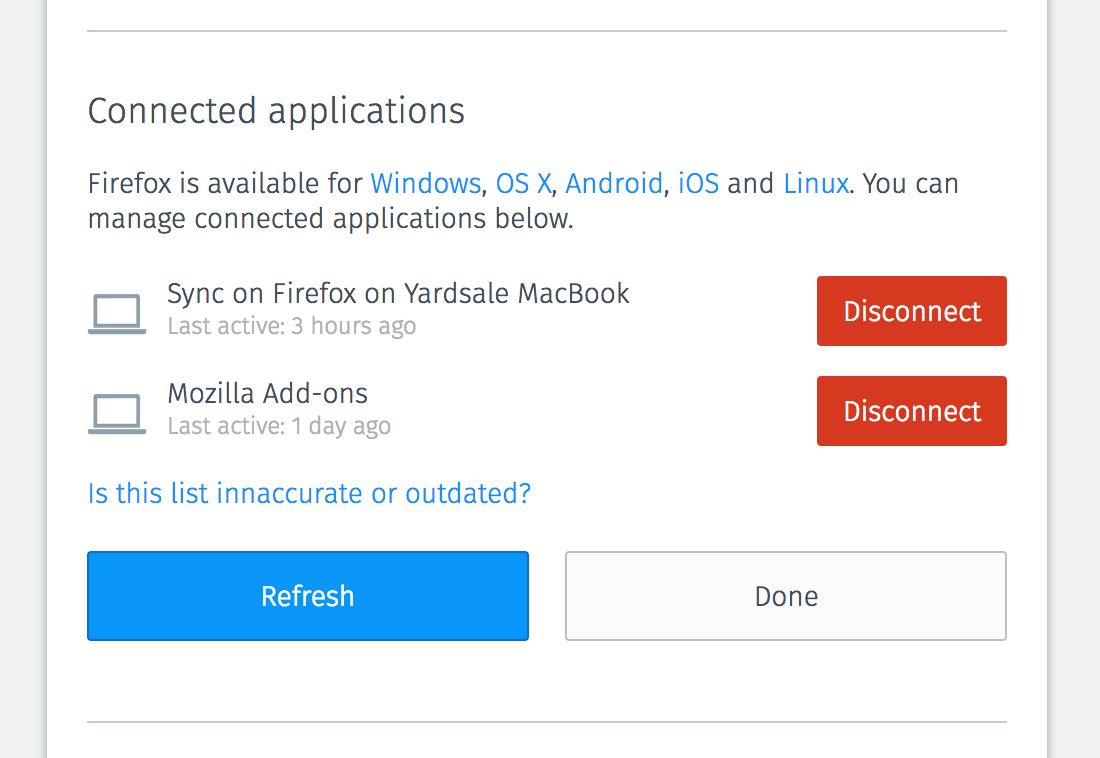
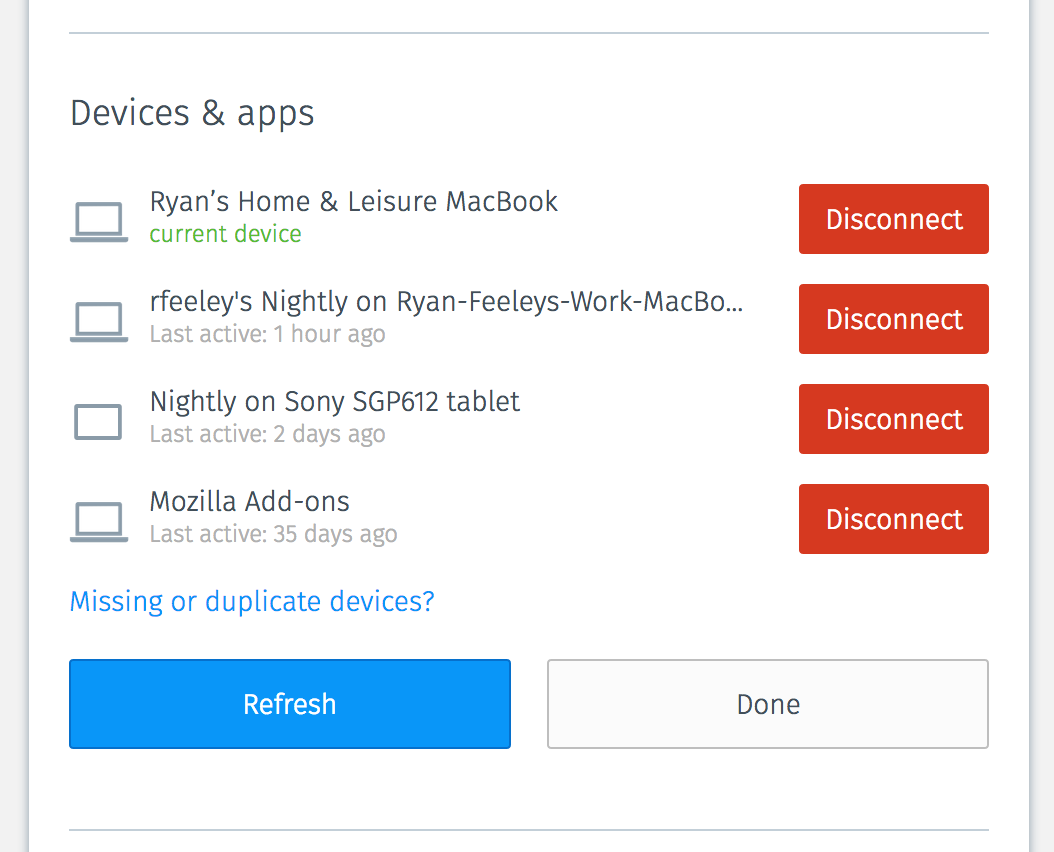
feat(fxa-15): new mock, easier to read spec

Changed region(s): [[0.0, 0.0, 1.0, 1.0], [0.5161, 0.7586, 0.5465, 0.7889]]

diff --git a/features/FxA-15-OAuth-Management/README.md b/features/FxA-15-OAuth-Management/README.md
@@ -1,7 +1,7 @@
 Disconnect OAuth services from FxA
 ======================
 
-https://mozilla.aha.io/features/FXA-15
+https://github.com/mozilla/fxa-features/issues/20
 
 ## Problem Summary
 
@@ -20,9 +20,9 @@ See "Detailed Design" below for more details.
 
 ## Hypothesis
 
-We believe that by adding OAuth services and functionality to disconnect the services
-for Firefox Accounts users will improve the quality and security of FxA
-for everybody.
+Being able to disconnect the services from user settings
+will improve the quality and security of our service.
+This functionality is a core feature for services that provide OAuth relier login.
 We will know this is true when we see activity in the "Connected apps and devices"
 
 ## Metrics
@@ -39,25 +39,31 @@ the popularity of this feature.
 
 ## Detailed design
 
-<img src='pr_moz_mock.png' width='450' />
+<img src='pr_moz_mock.png' width='440' />
+
+The mock up above adds "apps" functionality to the
+[Devices View (FXA-89)](https://github.com/mozilla/fxa/pull/181/files).
 
 The initial OAuth apps list would
 revoke the non-expired tokens using the web UI.
 It will be displayed to logged in users of FxA
-in the "Connected apps and devices" settings view.
+in the "Devices & apps" settings view.
 This new functionality changes the current devices view and adds to it.
 
 The list will also include the sessions that were created
-for the Firefox Accounts website and the Firefox Desktop browser.
-This gives users full control over all of their sessions.
+for the Firefox Accounts website. Firefox Browser and Sync logins
+are treated as 'device clients' and are managed as 'Devices', not apps.
 
 * The dashboard will order the services by last login to a given service.
+* The OAuth servers calls the listed items "clients". To make it easier to understand
+we call them "apps" in the settings view.
 * The button to remove all active sessions will say "Disconnect". To match "devices".
 * The dashboard will provide a "last active" date in the same format as the devices view.
-* The dashboard's title in settings will be "Connected apps and devices".
+* The dashboard's title in settings will be "Connected devices & apps".
 * All services will have the same default service icon to improve the visual UX of the feature.
 * Revoking Access:
-  * OAuth service: will revoke all tokens belonging to a given OAuth service.
+  * OAuth service: will revoke all non-expired tokens belonging to a given OAuth service.
+  * Expired tokens are deleted by a different purpose. This feature does not deal with expired tokens.
   * FxA Settings (content-server): will invalidate all content-server tokens and local session token, log the user out.
     * The content-server will be called "Firefox Accounts Settings" in the dashboard.
   * Firefox Desktop and other browsers clients: will not be listed and their devices records would revoke their tokens.
